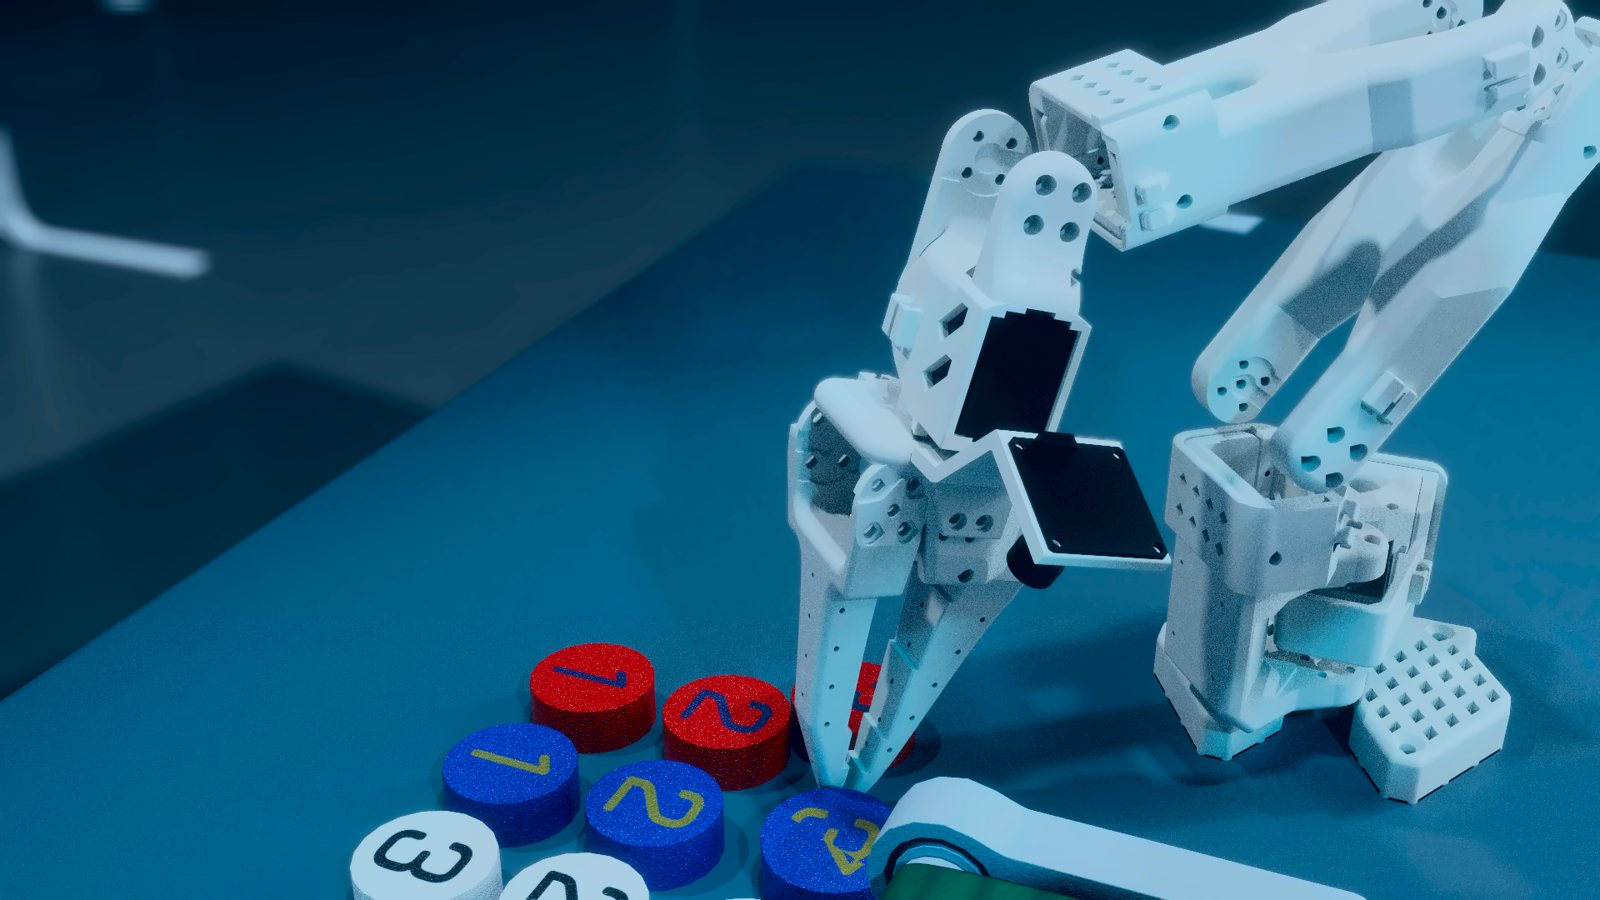
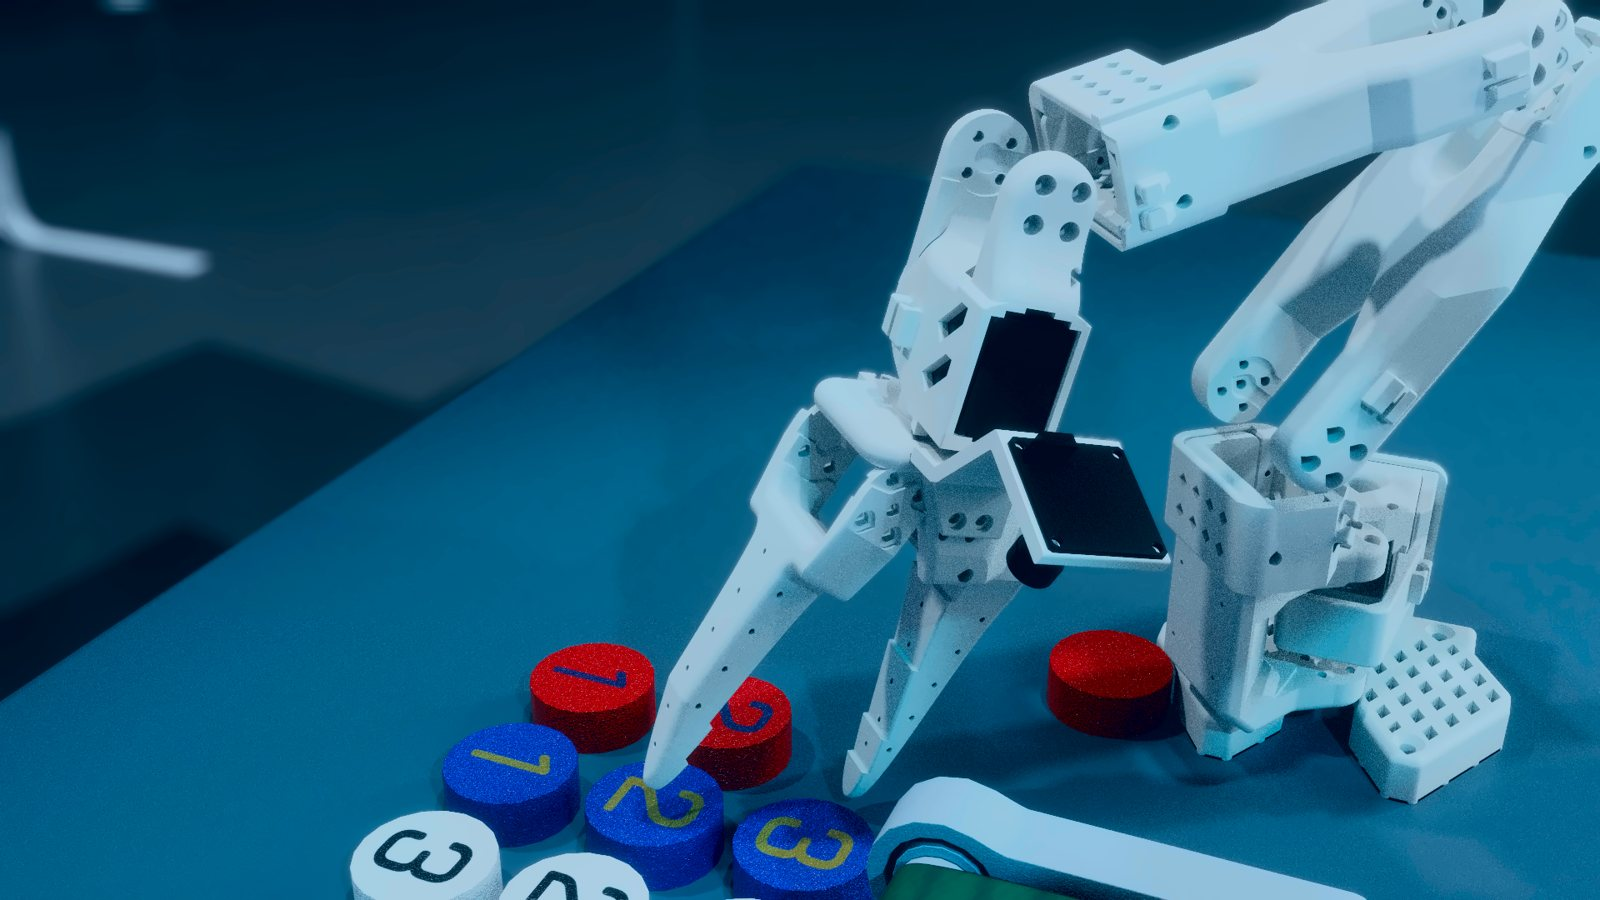
docs: README 집기 스크린샷 교체 — 겹친 뚜껑·허공에 뜬 뚜껑 없이 집기 직전·벨트에 내려놓는 장면

diff --git a/README.md b/README.md
@@ -49,9 +49,9 @@
 | | |
 |---|---|
 | ![컨베이어 장면](docs/images/hq/scene_main.jpg) | ![뚜껑 집기 + 패널](docs/images/hq/pick_ui.jpg) |
-| 검사 카메라·링라이트·컨베이어·로봇팔 (실물 팔로워 팔과 같은 흰색) | 뚜껑 집기 자세와 패널 관절 값 |
+| 검사 카메라·링라이트·컨베이어·로봇팔 (실물 팔로워 팔과 같은 흰색) | 뚜껑 집기 직전 자세와 패널 관절 값 |
 | ![집게 가까이](docs/images/hq/pick_close.jpg) | ![컨베이어에 올리기](docs/images/hq/place_on_belt.jpg) |
-| 집게가 뚜껑을 잡는 장면 | 집은 뚜껑을 컨베이어에 올리는 장면 |
+| 뚜껑을 집기 직전 (집게 가까이) | 집은 뚜껑을 컨베이어에 내려놓는 장면 |
 
 ## 할 수 있는 것
 
